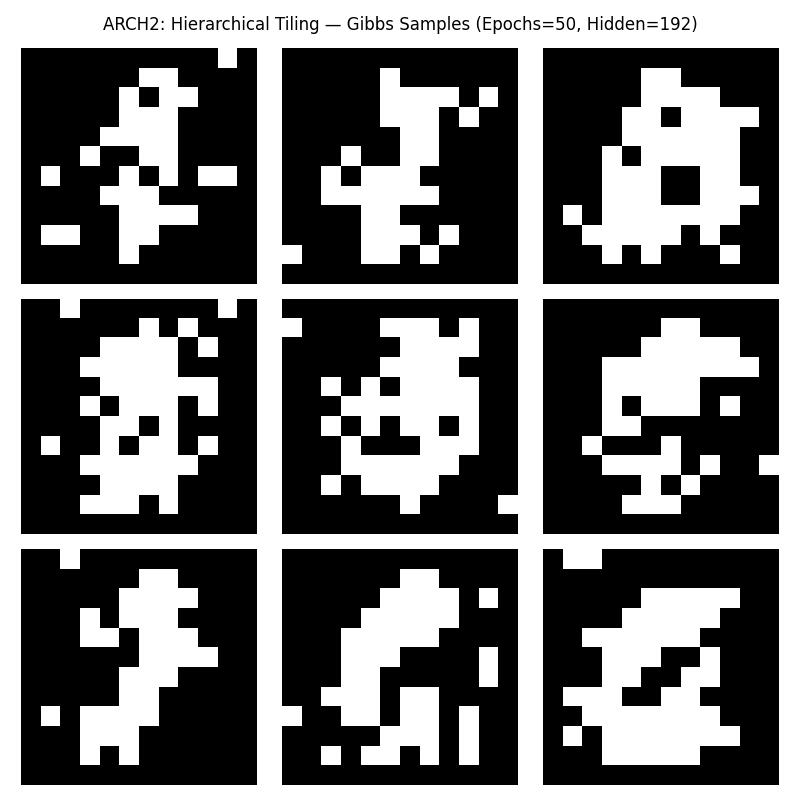
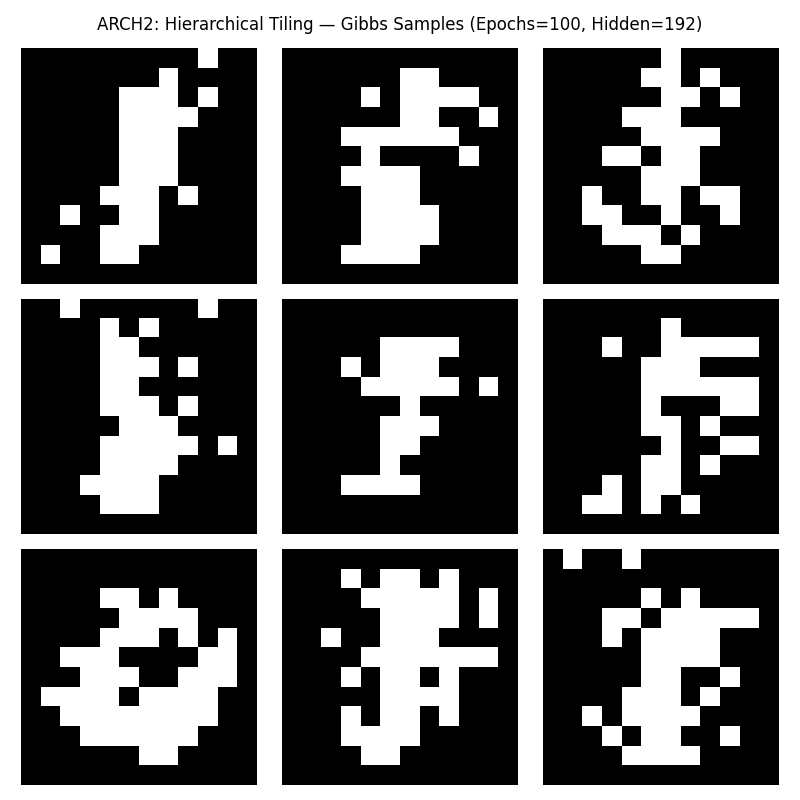
Data & Model saving

diff --git a/ARCH3-ilp-bidirectional.py b/ARCH3-ilp-bidirectional.py
@@ -19,6 +19,7 @@ Falls back to a greedy refinement approach if pyscipopt is unavailable.
 
 #%% defs
 
+import os
 import time
 import torch
 import numpy as np
@@ -386,10 +387,10 @@ grid_shape = GRID_SHAPE  # (12, 12) from bolmaqua
 num_visible = grid_shape[0] * grid_shape[1]
 
 # Training hyperparameters (matching test-RBM-as-custom-BM.py)
-lr = 1e-4
-weight_decay = 0.0001
+lr = 5e-5
+weight_decay = 0.00001
 batch_size = 64
-epochs = 50
+epochs = 100
 k_steps = 10
 persistent_chains = True
 
@@ -406,9 +407,15 @@ ilp_beta  = 1.0    # weight for min VH-degree of hidden nodes
 ilp_gamma = 0.01   # penalty per VV edge
 ilp_time_limit = 300  # seconds (5 minutes; K=3 should solve much faster)
 
+# Build hyperparam tag for filenames
+hparam_tag = f"K{K}_lr{lr}_wd{weight_decay}_bs{batch_size}_ep{epochs}_k{k_steps}_a{ilp_alpha}_b{ilp_beta}_g{ilp_gamma}"
+data_dir = "data"
+os.makedirs(data_dir, exist_ok=True)
+
 print(f"Zephyr K={K}, grid_shape={grid_shape}, num_visible={num_visible}")
 print(f"ILP weights: alpha={ilp_alpha}, beta={ilp_beta}, gamma={ilp_gamma}")
 print(f"Training: lr={lr}, epochs={epochs}, k_steps={k_steps}, batch_size={batch_size}")
+print(f"Hparam tag: {hparam_tag}")
 
 #%% 2. Data Loading
 
@@ -509,6 +516,26 @@ training_history = train_boltzmann_machine_pcd(
     eval_every=5,
 )
 
+#%% 6a. Save model and training history
+
+model_path = os.path.join(data_dir, f"arch3_{ARCH_NAME}_{hparam_tag}_model.pt")
+torch.save({
+    'model_state_dict': model.state_dict(),
+    'training_history': training_history,
+    'arch_name': ARCH_NAME,
+    'arch_label': ARCH_LABEL,
+    'hyperparams': {
+        'K': K, 'grid_shape': grid_shape, 'lr': lr, 'weight_decay': weight_decay,
+        'batch_size': batch_size, 'epochs': epochs, 'k_steps': k_steps,
+        'ilp_alpha': ilp_alpha, 'ilp_beta': ilp_beta, 'ilp_gamma': ilp_gamma,
+        'ilp_time_limit': ilp_time_limit,
+        'num_visible': num_visible, 'num_hidden': num_hidden,
+    },
+    'graph_edges': list(G_relabeled.edges()),
+    'node_labels': node_labels,
+}, model_path)
+print(f"Saved model to {model_path}")
+
 #%% 6b. Plot training metrics
 
 if training_history is not None and 'pcd_loss' in training_history:
@@ -567,6 +594,7 @@ if training_history is not None and 'pcd_loss' in training_history:
     fig.suptitle(f"{ARCH_LABEL} ({method_str}) — Training Metrics (Hidden={num_hidden})")
     fig.tight_layout()
     fig.savefig(f"arch3_{ARCH_NAME}_training.png")
+    fig.savefig(os.path.join(data_dir, f"arch3_{ARCH_NAME}_{hparam_tag}_training.png"))
     print(f"Saved training plot to arch3_{ARCH_NAME}_training.png")
     plt.show()
 
@@ -584,6 +612,7 @@ for i, ax in enumerate(axes.flat):
     ax.axis('off')
 plt.tight_layout()
 plt.savefig(f"arch3_{ARCH_NAME}_samples_gibbs.png")
+plt.savefig(os.path.join(data_dir, f"arch3_{ARCH_NAME}_{hparam_tag}_samples_gibbs.png"))
 print(f"Saved Gibbs samples to arch3_{ARCH_NAME}_samples_gibbs.png")
 plt.show()
 
@@ -609,6 +638,7 @@ for i, ax in enumerate(axes_sa.flat):
     ax.axis('off')
 plt.tight_layout()
 plt.savefig(f"arch3_{ARCH_NAME}_samples_sa.png")
+plt.savefig(os.path.join(data_dir, f"arch3_{ARCH_NAME}_{hparam_tag}_samples_sa.png"))
 print(f"Saved SA samples to arch3_{ARCH_NAME}_samples_sa.png")
 plt.show()
 

diff --git a/ARCH2-hierarchical-tiling.py b/ARCH2-hierarchical-tiling.py
@@ -16,6 +16,7 @@ distributed throughout the graph, each guaranteed nearby hidden neighbors.
 
 #%% defs
 
+import os
 import time
 import torch
 import numpy as np
@@ -284,10 +285,10 @@ grid_shape = GRID_SHAPE  # (12, 12) from bolmaqua
 num_visible = grid_shape[0] * grid_shape[1]
 
 # Training hyperparameters (matching test-RBM-as-custom-BM.py)
-lr = 1e-4
+lr = 5e-5
 weight_decay = 0.0001
 batch_size = 64
-epochs = 50
+epochs = 100
 k_steps = 10
 persistent_chains = True
 
@@ -301,10 +302,16 @@ sa_iterations = 16
 # Strategy-specific
 patch_size = 3  # 3x3 patches → 4x4=16 tiles for 12x12 image; each tile has 9 pixels
 
+# Build hyperparam tag for filenames
+hparam_tag = f"K{K}_lr{lr}_wd{weight_decay}_bs{batch_size}_ep{epochs}_k{k_steps}_patch{patch_size}"
+data_dir = "data"
+os.makedirs(data_dir, exist_ok=True)
+
 print(f"Zephyr K={K}, grid_shape={grid_shape}, num_visible={num_visible}")
 print(f"Patch size: {patch_size}x{patch_size} → "
       f"{grid_shape[0]//patch_size}x{grid_shape[1]//patch_size} tiles")
 print(f"Training: lr={lr}, epochs={epochs}, k_steps={k_steps}, batch_size={batch_size}")
+print(f"Hparam tag: {hparam_tag}")
 
 #%% 2. Data Loading
 
@@ -377,6 +384,25 @@ training_history = train_boltzmann_machine_pcd(
     eval_every=5,
 )
 
+#%% 6a. Save model and training history
+
+model_path = os.path.join(data_dir, f"arch2_{ARCH_NAME}_{hparam_tag}_model.pt")
+torch.save({
+    'model_state_dict': model.state_dict(),
+    'training_history': training_history,
+    'arch_name': ARCH_NAME,
+    'arch_label': ARCH_LABEL,
+    'hyperparams': {
+        'K': K, 'grid_shape': grid_shape, 'lr': lr, 'weight_decay': weight_decay,
+        'batch_size': batch_size, 'epochs': epochs, 'k_steps': k_steps,
+        'patch_size': patch_size,
+        'num_visible': num_visible, 'num_hidden': num_hidden,
+    },
+    'graph_edges': list(G_relabeled.edges()),
+    'node_labels': node_labels,
+}, model_path)
+print(f"Saved model to {model_path}")
+
 #%% 6b. Plot training metrics
 
 if training_history is not None and 'pcd_loss' in training_history:
@@ -434,6 +460,7 @@ if training_history is not None and 'pcd_loss' in training_history:
     fig.suptitle(f"{ARCH_LABEL} — Training Metrics (Hidden={num_hidden}, patch={patch_size}x{patch_size})")
     fig.tight_layout()
     fig.savefig(f"arch2_{ARCH_NAME}_training.png")
+    fig.savefig(os.path.join(data_dir, f"arch2_{ARCH_NAME}_{hparam_tag}_training.png"))
     print(f"Saved training plot to arch2_{ARCH_NAME}_training.png")
     plt.show()
 
@@ -451,6 +478,7 @@ for i, ax in enumerate(axes.flat):
     ax.axis('off')
 plt.tight_layout()
 plt.savefig(f"arch2_{ARCH_NAME}_samples_gibbs.png")
+plt.savefig(os.path.join(data_dir, f"arch2_{ARCH_NAME}_{hparam_tag}_samples_gibbs.png"))
 print(f"Saved Gibbs samples to arch2_{ARCH_NAME}_samples_gibbs.png")
 plt.show()
 
@@ -476,6 +504,7 @@ for i, ax in enumerate(axes_sa.flat):
     ax.axis('off')
 plt.tight_layout()
 plt.savefig(f"arch2_{ARCH_NAME}_samples_sa.png")
+plt.savefig(os.path.join(data_dir, f"arch2_{ARCH_NAME}_{hparam_tag}_samples_sa.png"))
 print(f"Saved SA samples to arch2_{ARCH_NAME}_samples_sa.png")
 plt.show()
 

diff --git a/ARCH1-spectral-bisection.py b/ARCH1-spectral-bisection.py
@@ -15,6 +15,7 @@ non-bipartite edges (VV, HH) provide additional learning capacity.
 
 #%% defs
 
+import os
 import time
 import torch
 import numpy as np
@@ -239,9 +240,9 @@ num_visible = grid_shape[0] * grid_shape[1]
 
 # Training hyperparameters (matching test-RBM-as-custom-BM.py)
 lr = 1e-4
-weight_decay = 0.0001
+weight_decay = 0.00001
 batch_size = 64
-epochs = 50
+epochs = 100
 k_steps = 10
 persistent_chains = True
 
@@ -256,8 +257,14 @@ sa_iterations = 16
 refinement_iters = 500
 vv_penalty = 0.01  # gamma for VV edge penalty in refinement
 
+# Build hyperparam tag for filenames
+hparam_tag = f"K{K}_lr{lr}_wd{weight_decay}_bs{batch_size}_ep{epochs}_k{k_steps}_refine{refinement_iters}_gamma{vv_penalty}"
+data_dir = "data"
+os.makedirs(data_dir, exist_ok=True)
+
 print(f"Zephyr K={K}, grid_shape={grid_shape}, num_visible={num_visible}")
 print(f"Training: lr={lr}, epochs={epochs}, k_steps={k_steps}, batch_size={batch_size}")
+print(f"Hparam tag: {hparam_tag}")
 
 #%% 2. Data Loading
 
@@ -338,6 +345,25 @@ training_history = train_boltzmann_machine_pcd(
     eval_every=5,
 )
 
+#%% 6a. Save model and training history
+
+model_path = os.path.join(data_dir, f"arch1_{ARCH_NAME}_{hparam_tag}_model.pt")
+torch.save({
+    'model_state_dict': model.state_dict(),
+    'training_history': training_history,
+    'arch_name': ARCH_NAME,
+    'arch_label': ARCH_LABEL,
+    'hyperparams': {
+        'K': K, 'grid_shape': grid_shape, 'lr': lr, 'weight_decay': weight_decay,
+        'batch_size': batch_size, 'epochs': epochs, 'k_steps': k_steps,
+        'refinement_iters': refinement_iters, 'vv_penalty': vv_penalty,
+        'num_visible': num_visible, 'num_hidden': num_hidden,
+    },
+    'graph_edges': list(G_relabeled.edges()),
+    'node_labels': node_labels,
+}, model_path)
+print(f"Saved model to {model_path}")
+
 #%% 6b. Plot training metrics
 
 if training_history is not None and 'pcd_loss' in training_history:
@@ -395,6 +421,7 @@ if training_history is not None and 'pcd_loss' in training_history:
     fig.suptitle(f"{ARCH_LABEL} — Training Metrics (Hidden={num_hidden})")
     fig.tight_layout()
     fig.savefig(f"arch1_{ARCH_NAME}_training.png")
+    fig.savefig(os.path.join(data_dir, f"arch1_{ARCH_NAME}_{hparam_tag}_training.png"))
     print(f"Saved training plot to arch1_{ARCH_NAME}_training.png")
     plt.show()
 
@@ -412,6 +439,7 @@ for i, ax in enumerate(axes.flat):
     ax.axis('off')
 plt.tight_layout()
 plt.savefig(f"arch1_{ARCH_NAME}_samples_gibbs.png")
+plt.savefig(os.path.join(data_dir, f"arch1_{ARCH_NAME}_{hparam_tag}_samples_gibbs.png"))
 print(f"Saved Gibbs samples to arch1_{ARCH_NAME}_samples_gibbs.png")
 plt.show()
 
@@ -437,6 +465,7 @@ for i, ax in enumerate(axes_sa.flat):
     ax.axis('off')
 plt.tight_layout()
 plt.savefig(f"arch1_{ARCH_NAME}_samples_sa.png")
+plt.savefig(os.path.join(data_dir, f"arch1_{ARCH_NAME}_{hparam_tag}_samples_sa.png"))
 print(f"Saved SA samples to arch1_{ARCH_NAME}_samples_sa.png")
 plt.show()
 
